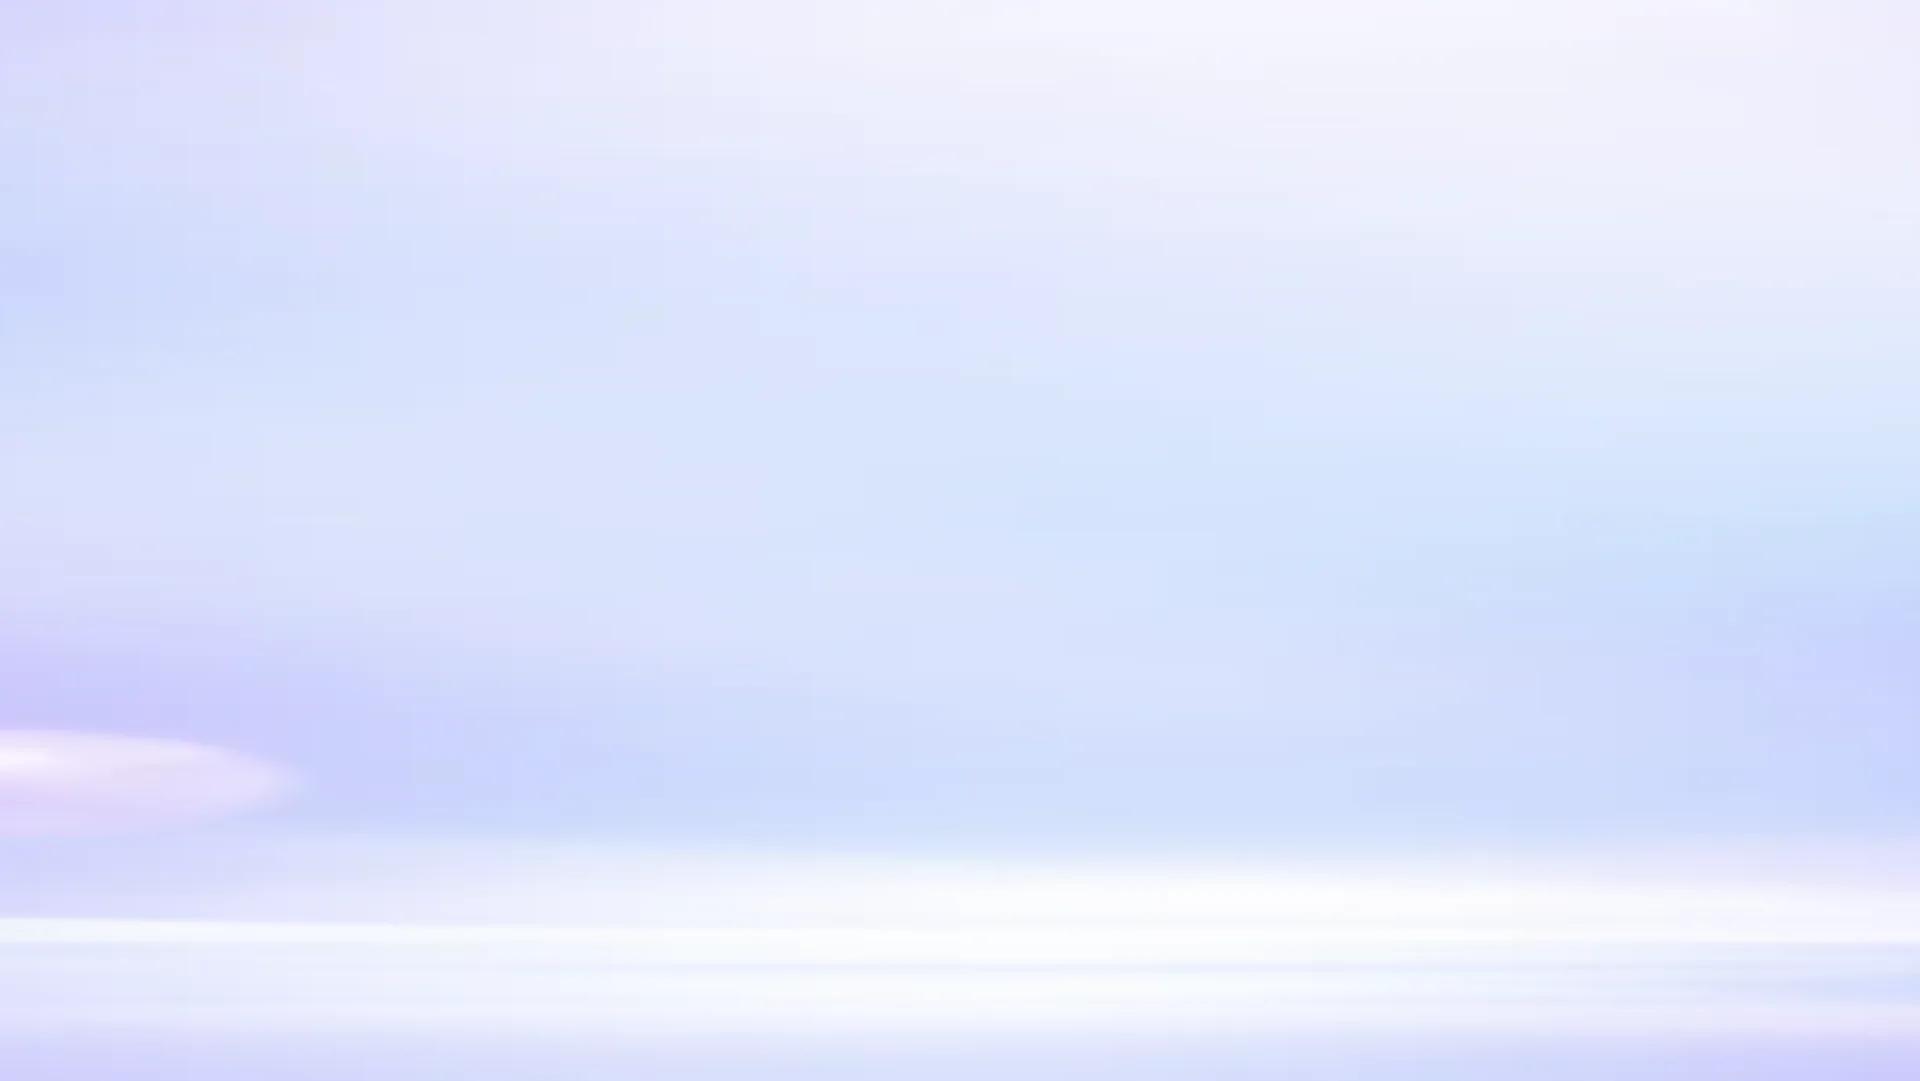
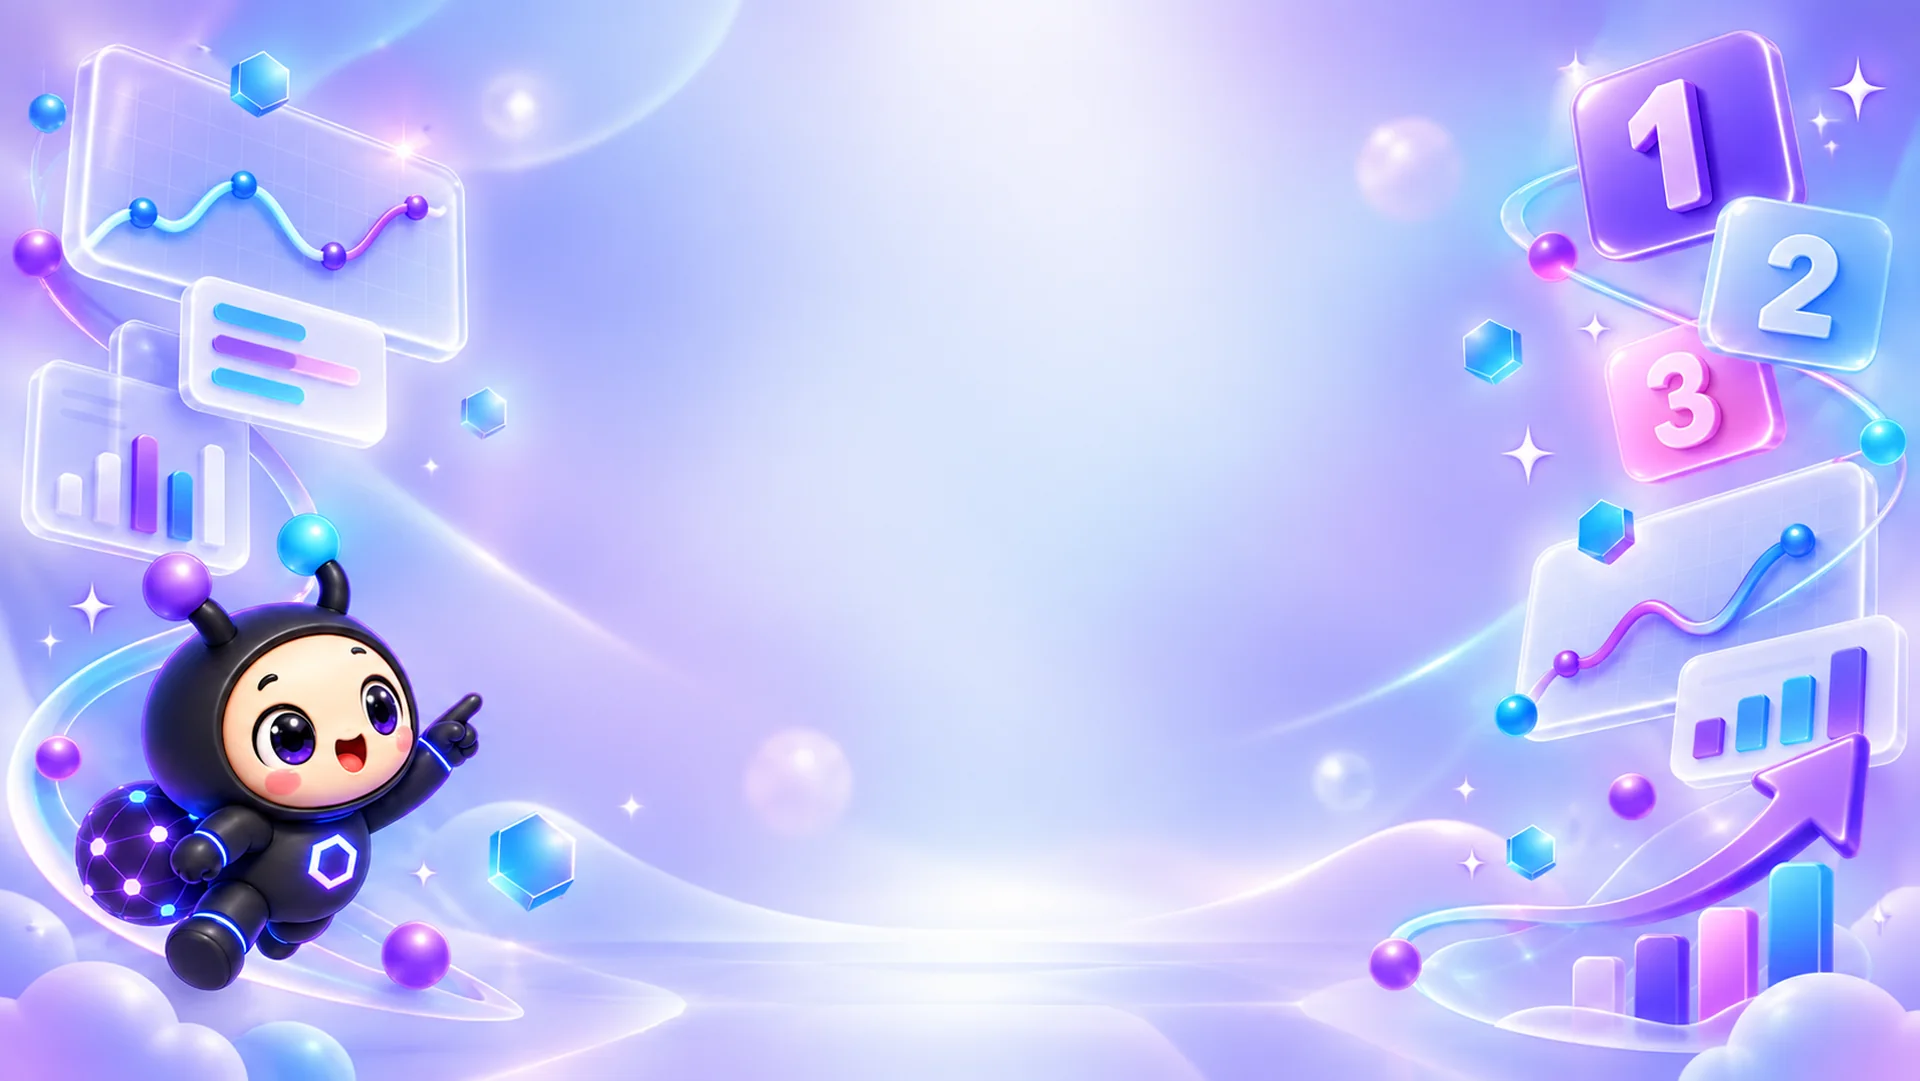
design: FE_[ANT-FE-RANKING]_랭킹 배경을 완성된 그림 한 장으로 바꾸고 그림째 흔든다
조각을 낱개로 오려 띄우던 것을 걷었다. 그 방식은 두 가지가 계속 걸렸다.

첫째, 조각을 본문 바깥에 세우려면 자리를 본문 폭에 맞춰 하나씩 잡아야 하는데 공용
.main-inner 가 1600px 이라 넓은 화면에서 조각이 표 위를 덮었다. 이 화면만 본문을
좁혀 겨우 자리를 냈지만, 폭이 바뀔 때마다 다시 계산해야 하는 구조가 남는다.

둘째, 배경 그림에 이미 같은 물체(1·2·3 블록 · 차트 · 캐릭터)가 그려져 있어 오려 낸
조각을 옆에 띄우면 둘이 나란히 보였다. 그래서 배경에서 물체를 지우고 맑은 그라데이션만
남겼는데, 그러면 받은 그림을 절반만 쓰는 셈이었다.

완성된 그림 한 장을 그대로 깔고 **그림째 흔든다.** 22초에 한 번 좌우로 ±13px,
위아래로 6px, 배율 1.00~1.02. 조각마다 따로 움직이지 않아도 화면이 굳어 있지 않고,
본문 폭과 아무 상관이 없어 어떤 창 크기에서도 글을 덮지 않는다.

그림을 가로 106% 로 넘겨 깐다 — 딱 맞게 깔면 흔들리는 순간 가장자리에 빈 틈이 보인다.
상단 바가 고정이라 판은 그 아래부터 시작한다. 움직임 줄이기를 켠 사람에게는 멈춘다.

받은 PNG 1.5MB 는 가로 1920 webp 로 굽고 원본은 지웠다(97KB). 오려 두었던 조각
아홉(115KB)은 이제 쓰지 않아 함께 지운다.

diff --git a/frontend/src/styles/screens/ranking.css b/frontend/src/styles/screens/ranking.css
@@ -7,86 +7,44 @@
    섹터 칩(.rk-filters · .rk-sectors)도 지웠다 — 필터는 기간 하나만 남았다
    (2026-09-17, Ranking.tsx 머리말). */
 
-/* ── 떠다니는 하늘 배경 ─────────────────────────
-   랭킹 화면만 벽지를 갈아입는다. 배경 한 장을 깔고 그 위에 조각 아홉을 따로 띄운다.
+/* ── 하늘 배경 ─────────────────────────────────
+   랭킹 화면만 벽지를 갈아입는다. 완성된 그림 한 장이고, 그림 자체가 아주 느리게
+   흔들린다.
 
-   **조각을 그림에 구워 두지 않는 이유.** 한 장으로 두면 아무리 예뻐도 가만히 있어
-   그냥 벽지가 된다. 낱개로 띄우면 저마다 다른 속도·방향으로 움직여, 화면을 보고
-   있는 동안 조금씩 달라진다.
-
-   **읽는 것이 먼저다.** 순위표가 주인공이라 조각은 전부 가장자리에 두고 가운데는
-   비운다. 표 뒤로는 절대 들어가지 않는다(가운데 40% 는 빈 띠). */
+   **조각을 낱개로 띄우던 것을 걷었다(2026-09-19).** 오려 낸 조각을 본문 바깥에
+   세우려면 자리를 본문 폭에 맞춰 하나씩 잡아야 했는데, 공용 .main-inner 가
+   1600px 이라 넓은 화면에서 조각이 표 위를 덮었다. 그림에 이미 같은 물체가 그려져
+   있어 나란히 놓이면 겹쳐 보이기도 했다. 한 장을 통째로 움직이면 이 둘이 같이 없어진다. */
 .rk-page{ position:relative; isolation:isolate; }
-
-/* **이 화면만 본문을 좁힌다.** 공용 .main-inner 는 max-width:1600px 이라 넓은 화면에서
-   본문이 화면을 거의 다 먹는다. 그러면 조각이 설 여백이 없어 표 위로 올라온다.
-   순위표는 열이 여섯뿐이라 1600px 에서는 값 사이가 휑하기도 하다 — 좁히는 편이
-   읽기에도 낫고, 남은 양옆이 조각 자리가 된다. */
-.rk-page .main-inner{ max-width:1180px; }
-/* **판은 페이지 전체를 덮는다.** 처음엔 위 720px 로 잘라 뒀는데, 목록이 길어지면
-   아래쪽이 텅 빈 흰 바탕으로 남아 조각이 하나도 안 보였다. 판을 끝까지 늘리고
-   그림만 위쪽에 두면, 아래는 앱 바탕색이면서도 조각은 계속 떠 있다. */
 .rk-sky{
   position:absolute; left:0; right:0; bottom:0; z-index:-1;
-  /* 상단 바는 고정이라 그 아래부터 깔아야 그림 윗부분이 안 잘린다 */
+  /* 상단 바는 고정이라 그 아래부터 깔아야 그림 윗부분이 안 가려진다 */
   top:var(--topbar-h);
   overflow:hidden; pointer-events:none;
 }
-/* 그림은 위쪽 띠에만. 아래로 갈수록 사라져 앱 바탕색으로 자연스럽게 이어진다 */
 .rk-sky-bg{
-  position:absolute; left:0; right:0; top:0;
-  width:100%; height:min(720px, 100%);
+  position:absolute; left:0; top:0;
+  /* 흔들릴 여유만큼 넘겨 깐다 — 딱 맞게 깔면 움직이는 순간 가장자리에 빈 틈이 보인다 */
+  width:106%; height:min(760px, 100%);
+  margin-left:-3%;
   object-fit:cover; object-position:center top;
   -webkit-mask-image:linear-gradient(#000 58%, transparent);
           mask-image:linear-gradient(#000 58%, transparent);
+  /* 아주 느리게. 22초면 보고 있는 동안 "움직인다" 가 아니라 "살아 있다" 로 읽힌다 */
+  animation:rk-sway 22s ease-in-out infinite;
+  will-change:transform;
 }
-
-/* 조각 — **본문 바깥 여백에만** 둔다.
-   화면 비율로 흩뿌렸더니 제목 위로 올라와 글을 덮었다. 본문은 가운데 1120px 이므로
-   그 바깥으로 밀어 두면 어떤 높이에 있든 글과 겹칠 수 없다.
-
-   그래서 자리도 %가 아니라 calc(50% - 본문절반 - 조각폭) 으로 잡는다. 창을 넓히면
-   조각이 바깥으로 따라 나가고, 좁히면 아래 미디어 쿼리가 통째로 걷는다. */
-.rk-float{
-  position:absolute; display:block;
-  width:74px; opacity:.92;
-  filter:drop-shadow(0 8px 12px rgba(70,50,150,.18));
-  animation:rk-drift 9s ease-in-out infinite;
+/* 좌우로 흐르며 아주 조금 커졌다 작아진다. 한 축만 움직이면 미끄러지는 것으로 보인다 */
+@keyframes rk-sway{
+  0%, 100%{ transform:translate3d(0, 0, 0) scale(1); }
+  33%     { transform:translate3d(-1.2%, -6px, 0) scale(1.02); }
+  66%     { transform:translate3d(1.2%, 4px, 0) scale(1.01); }
 }
-/* 위아래로만 흐른다. 좌우로 흔들면 글을 읽는 눈이 따라가 버린다 */
-@keyframes rk-drift{ 50%{ transform:translateY(-14px) } }
-@keyframes rk-drift-turn{ 50%{ transform:translateY(-16px) rotate(6deg) } }
-
-/* 왼쪽 여백 */
-.rk-float.f4{ left:calc(50% - 590px - 96px);  top:120px; width:70px;  animation-duration:11s;   animation-delay:-2s; }
-.rk-float.f7{ left:calc(50% - 590px - 70px);  top:272px; width:46px;  animation-duration:8s;    animation-delay:-5s; }
-.rk-float.f9{ left:calc(50% - 590px - 150px); top:400px; width:128px; opacity:.55; animation-duration:13s; }
-.rk-float.f8{ left:calc(50% - 590px - 62px);  top:36px;  width:40px;  animation-duration:10.5s; animation-delay:-7s; }
-
-/* 오른쪽 여백 — 1·2·3 블록이 주인공이라 가장 크다 */
-.rk-float.f1{ right:calc(50% - 590px - 162px); top:30px;  width:150px; animation:rk-drift-turn 10s ease-in-out infinite; }
-.rk-float.f2{ right:calc(50% - 590px - 66px);  top:196px; width:54px;  animation-duration:7.5s; animation-delay:-3s; }
-.rk-float.f3{ right:calc(50% - 590px - 104px); top:284px; width:82px;  animation-duration:12s;  animation-delay:-6s; }
-.rk-float.f5{ right:calc(50% - 590px - 74px);  top:396px; width:60px;  animation-duration:9.5s; animation-delay:-1s; }
-.rk-float.f6{ right:calc(50% - 590px - 58px);  top:480px; width:44px;  animation-duration:8.5s; animation-delay:-4s; }
-
-/* 아래쪽 몫 — 바닥에서 재 올라온다.
-   위에서 px 로만 잡으면 목록 길이와 무관하게 늘 같은 자리라, 스크롤해 내려가면
-   조각이 하나도 없다. bottom 으로 잡아야 목록이 길든 짧든 아래에도 떠 있다. */
-.rk-float.f10{ left:calc(50% - 590px - 84px);  bottom:90px;  width:52px; animation-duration:9s;    animation-delay:-2s; }
-.rk-float.f11{ left:calc(50% - 590px - 60px);  bottom:280px; width:42px; animation-duration:11.5s; animation-delay:-6s; }
-.rk-float.f14{ left:calc(50% - 590px - 108px); bottom:470px; width:64px; animation-duration:10s;   animation-delay:-3s; }
-.rk-float.f12{ right:calc(50% - 590px - 70px);  bottom:140px; width:50px; animation-duration:8s;    animation-delay:-4s; }
-.rk-float.f13{ right:calc(50% - 590px - 96px);  bottom:330px; width:74px; animation-duration:12.5s; animation-delay:-1s; }
-.rk-float.f15{ right:calc(50% - 590px - 58px);  bottom:560px; width:44px; animation-duration:9.5s;  animation-delay:-7s; }
-
 @media (prefers-reduced-motion: reduce){
-  .rk-float{ animation:none; }
+  .rk-sky-bg{ animation:none; }
 }
-/* 본문 1180 + 조각이 설 자리가 양쪽에 170씩은 있어야 한다. 그보다 좁으면 통째로 걷는다 */
-@media (max-width: 1540px){
-  .rk-float{ display:none; }
-  /* 조각이 없으면 그림만 남는다. 띠를 낮춰 배경이 화면을 덜 먹게 한다 */
+/* 좁아지면 띠를 낮춘다 — 배경이 화면을 너무 먹으면 목록이 아래로 밀린다 */
+@media (max-width: 1100px){
   .rk-sky-bg{ height:min(420px, 100%); }
 }
 

diff --git a/frontend/src/pages/Ranking.tsx b/frontend/src/pages/Ranking.tsx
@@ -291,32 +291,15 @@ export default function Ranking() {
 
   return (
     <main className="main rk-page">
-      {/* ── 떠다니는 배경 ──────────────────────────────────────
-          한 장짜리 배경 그림 위에 조각 아홉을 따로 띄운다. 조각을 그림에 구워 두면
-          가만히 있어 그냥 벽지가 되는데, 낱개로 띄우면 저마다 다른 속도로 떠서
-          화면이 살아 있는 것처럼 보인다.
+      {/* ── 하늘 배경 ──────────────────────────────────────────
+          완성된 그림 한 장을 깐다. 한때 조각을 낱개로 오려 띄웠는데, 그림에 이미 같은
+          물체가 그려져 있어 나란히 놓이면 겹쳐 보였고 조각 자리를 본문 폭에 맞춰
+          일일이 잡아야 했다. 지금은 그림이 통째로 아주 느리게 흔들린다 —
+          조각마다 따로 움직이지 않아도 화면이 굳어 있지 않다.
 
-          **읽는 데 방해가 되면 안 된다.** 순위표가 주인공이라 조각은 전부 가장자리에
-          두고, 가운데는 비워 둔다. aria-hidden 으로 읽어 주는 기기에서는 건너뛴다. */}
+          aria-hidden 으로 읽어 주는 기기에서는 건너뛴다. */}
       <div className="rk-sky" aria-hidden="true">
         <img className="rk-sky-bg" src="/assets/event/rank-bg.webp" alt="" />
-        <img className="rk-float f1" src="/assets/event/deco-123.webp" alt="" />
-        <img className="rk-float f2" src="/assets/event/deco-crown.webp" alt="" />
-        <img className="rk-float f3" src="/assets/event/deco-arrow.webp" alt="" />
-        <img className="rk-float f4" src="/assets/event/deco-line.webp" alt="" />
-        <img className="rk-float f5" src="/assets/event/deco-pie.webp" alt="" />
-        <img className="rk-float f6" src="/assets/event/deco-cube-blue.webp" alt="" />
-        <img className="rk-float f7" src="/assets/event/deco-cube-gray.webp" alt="" />
-        <img className="rk-float f8" src="/assets/event/deco-orb.webp" alt="" />
-        <img className="rk-float f9" src="/assets/event/deco-ring.webp" alt="" />
-        {/* 아래쪽 몫. 같은 조각을 크기·속도만 달리해 다시 쓴다 — 파일이 늘지 않고
-            브라우저도 이미 받아 둔 것을 그대로 그린다 */}
-        <img className="rk-float f10" src="/assets/event/deco-cube-blue.webp" alt="" />
-        <img className="rk-float f11" src="/assets/event/deco-orb.webp" alt="" />
-        <img className="rk-float f12" src="/assets/event/deco-crown.webp" alt="" />
-        <img className="rk-float f13" src="/assets/event/deco-arrow.webp" alt="" />
-        <img className="rk-float f14" src="/assets/event/deco-line.webp" alt="" />
-        <img className="rk-float f15" src="/assets/event/deco-cube-gray.webp" alt="" />
       </div>
 
       <div className="main-inner">
